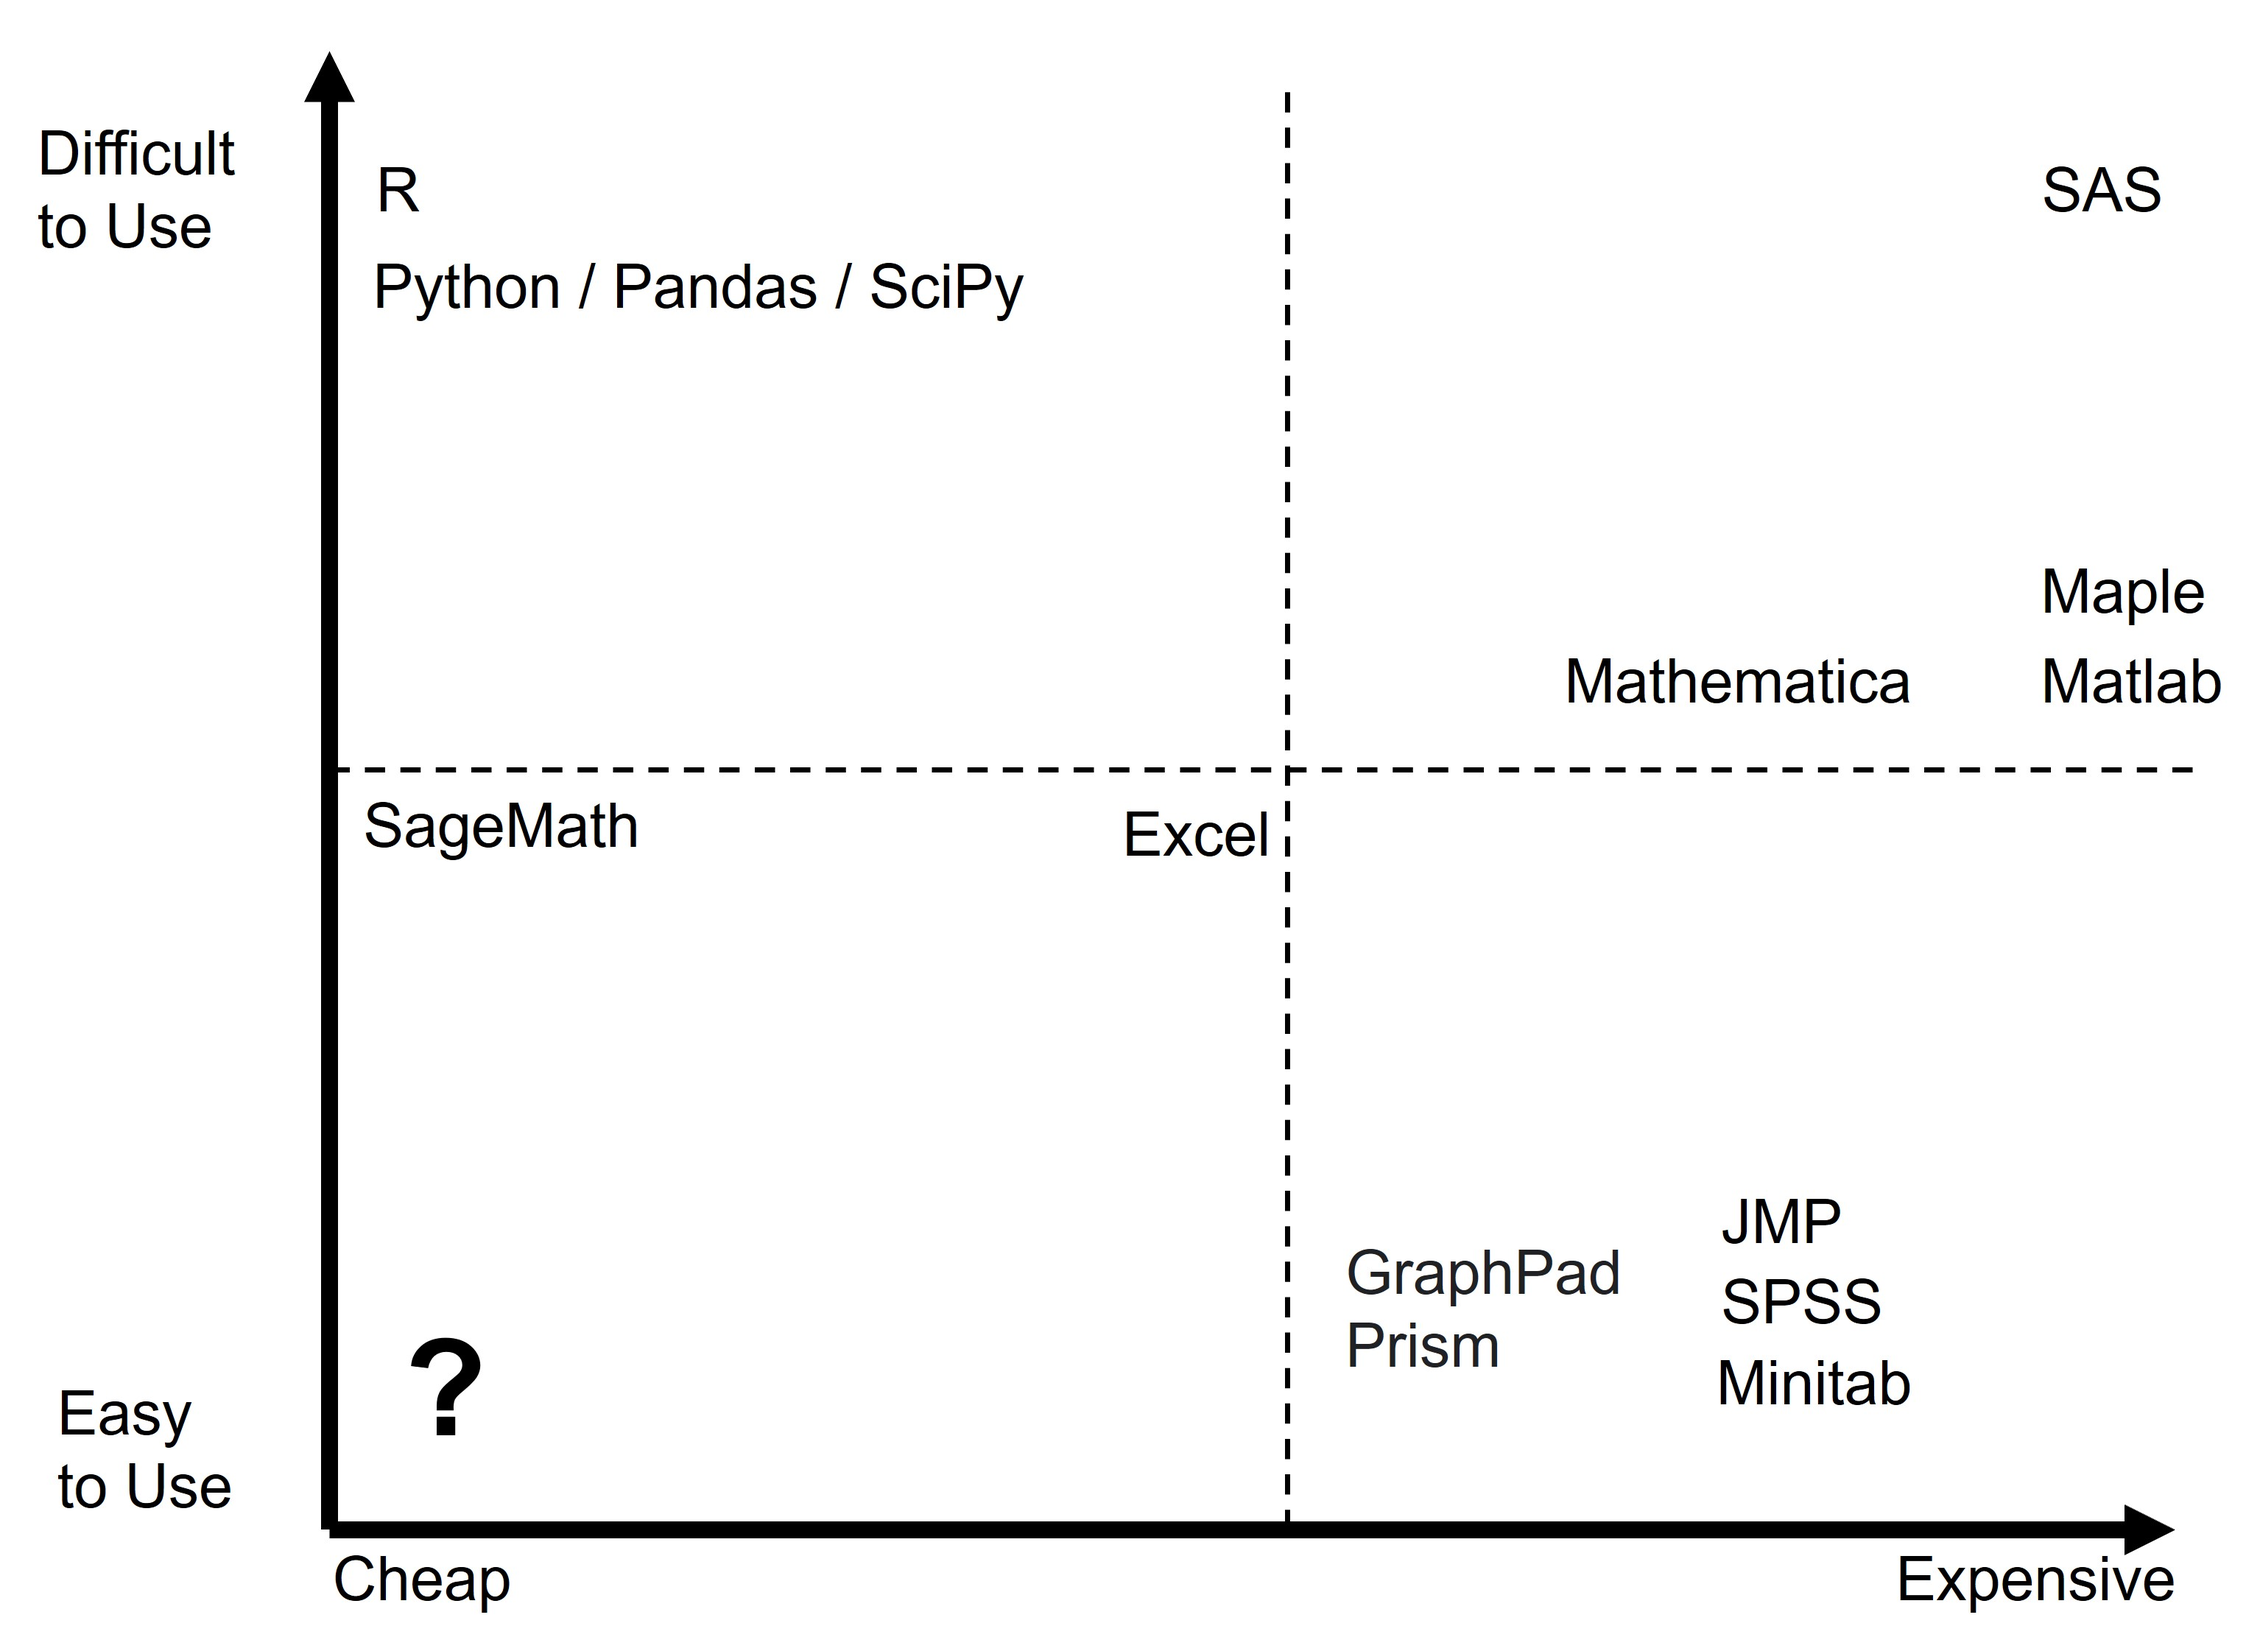
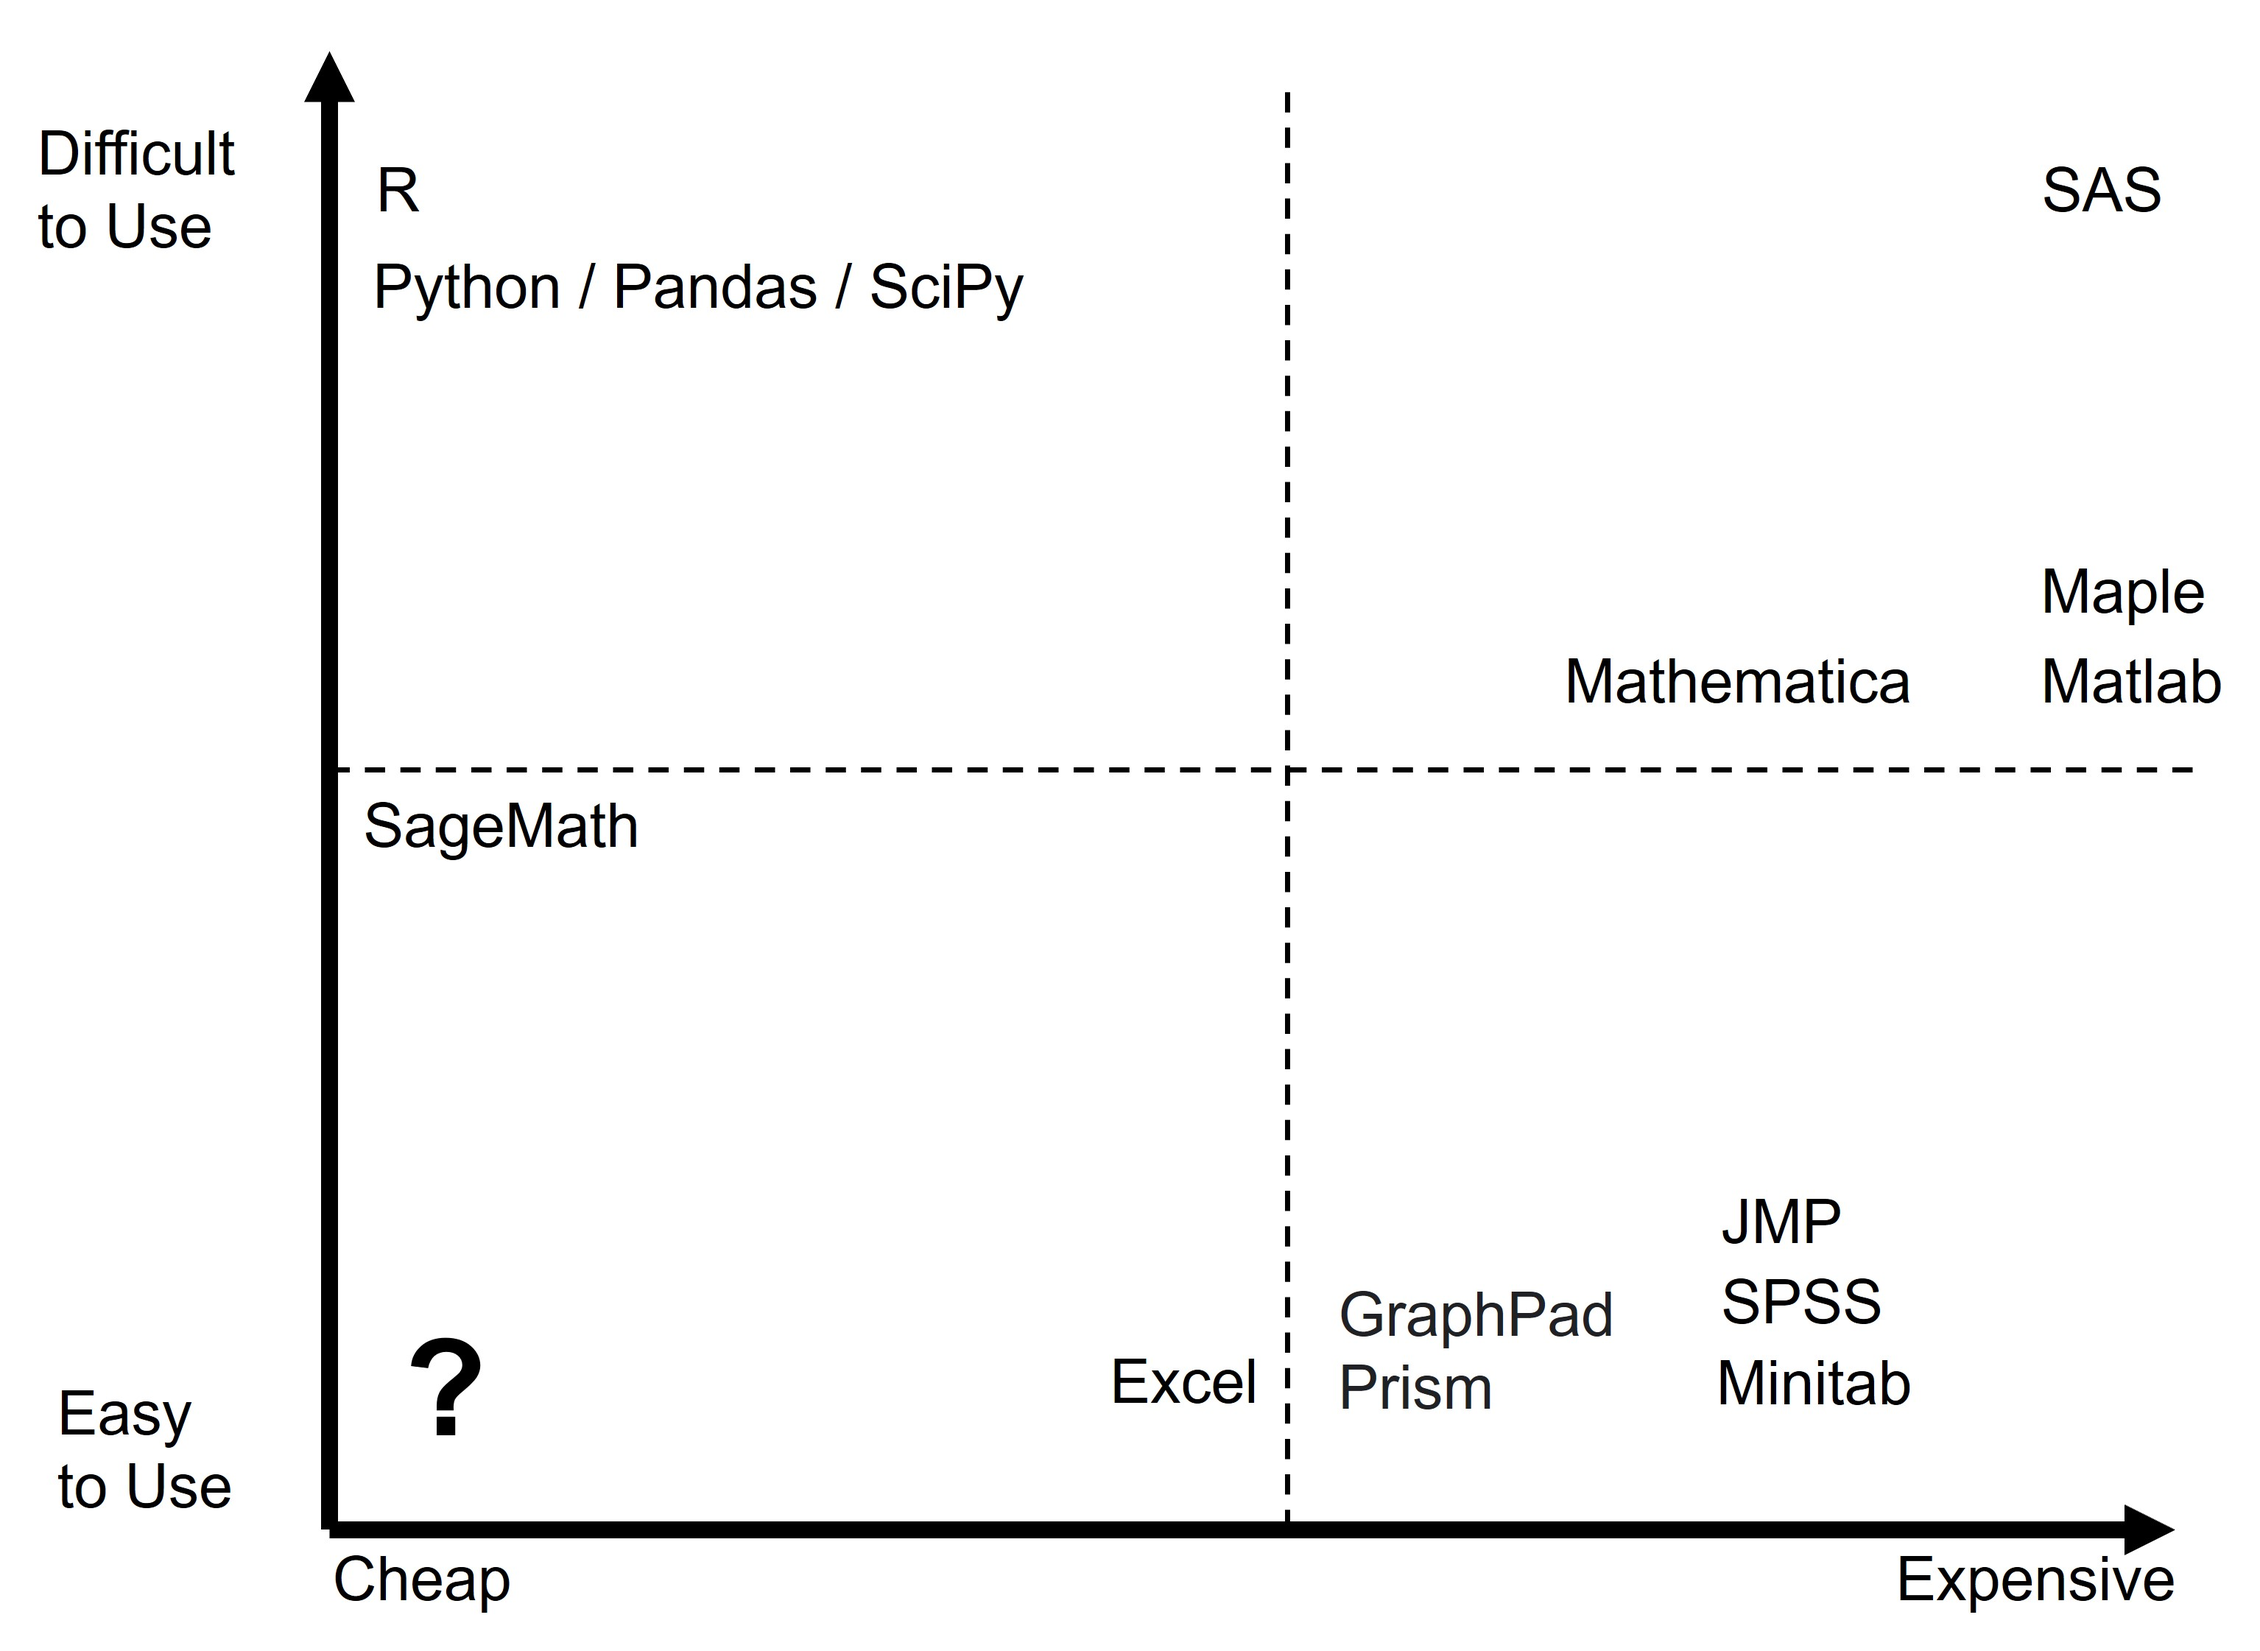
# edited README

Changed region(s): [[0.5881, 0.7493, 0.712, 0.8742], [0.4953, 0.8118, 0.5572, 0.8742], [0.4953, 0.4996, 0.5572, 0.5308]]

diff --git a/README.md b/README.md
@@ -1,5 +1,13 @@
 # Statistics in Python (SiPy): Python-Based Statistical Graphical User Interface for R/Python
 
-SiPy was build on the lessons learnt from [TAPPS](https://github.com/mauriceling/tapps)
+Back in 2012 when I was teaching a graduate course of Statistical Method in the [Department of Mathematics & Statistics](https://www.sdstate.edu/mathematics-statistics) of [South Dakota State University (USA)](https://www.sdstate.edu/), I found the world of statistical tools / applications to be a problem. I remembered a conversation with Runan during lunch one day that if I plot the statistical tools that I know on the heuristic axes of cost and difficulty, I will get something like this:
 
 ![common statistical tools](https://github.com/mauriceling/sipy/blob/main/images/common_statistical_tools.jpg)
+
+What students and researchers really need is something cheap (free will be the best) and easy to use but this is not available. This is expected as such a tool does not make business sense if it is to be a product. However, it makes educational sense. Hence, the only way that I can see forward is that such a tool comes from educators. This also means that such a tool cannot be "from scratch" but has to build largely on existing tools.
+
+My first attempt was [TAPPS](https://github.com/mauriceling/tapps) but it did not turn out well as I tried too hard "from scratch".
+
+Hence, this is my second and probably final attempt - Statistics in Python (SiPy): Python-Based Statistical Graphical User Interface for R/Python; built on the lessons learnt from [TAPPS](https://github.com/mauriceling/tapps). In SiPy, I attempt to build a click-and-use graphical user interface that is characteristic of "easy to use" tools; such as, Excel and Minitab; for the statistical tools already available within R, and Python / Pandas / SciPy. This was the conclusion of the very conversation with Runan a decade ago.
+
+Hopefully, I get it right this time.
